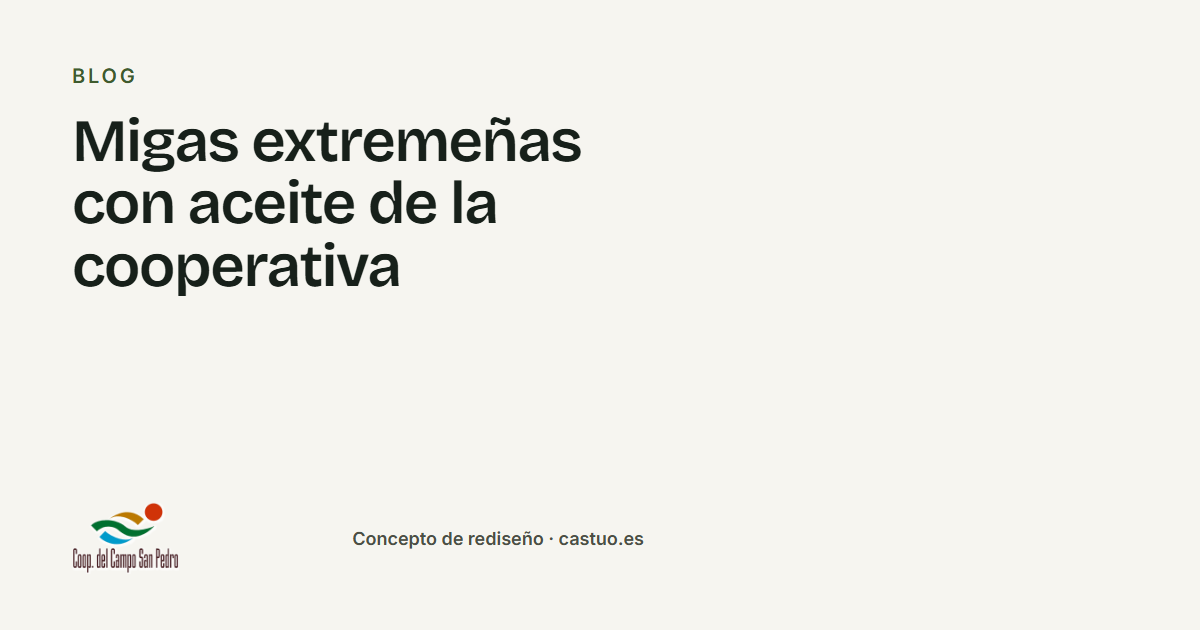
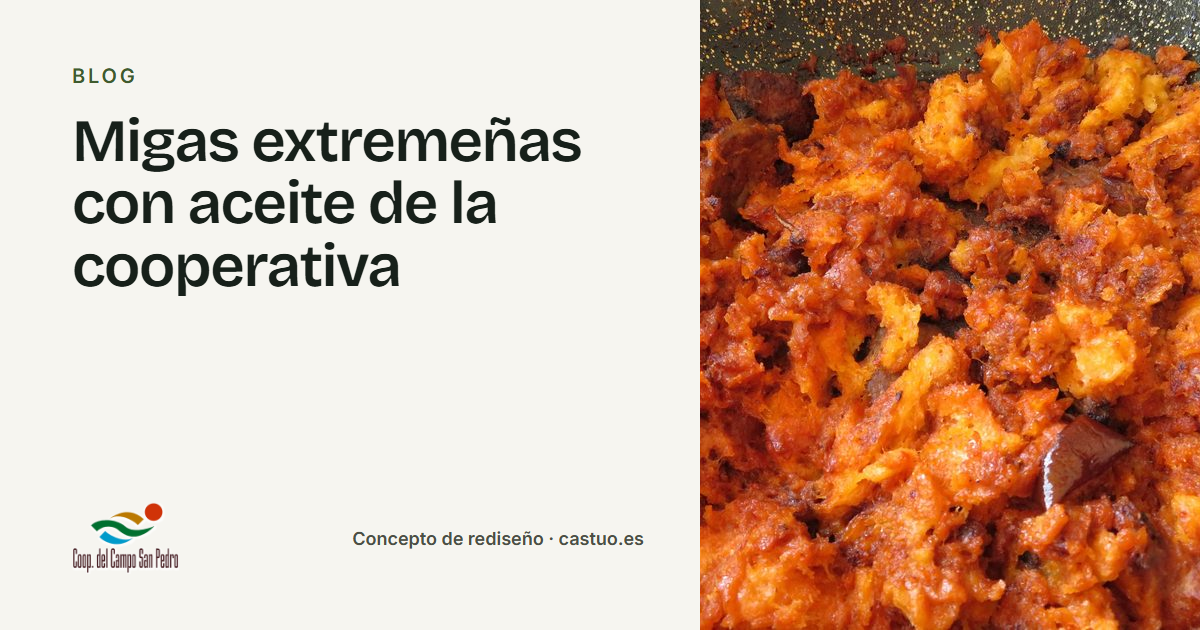
Fotos de recetas del blog (Wikimedia Commons, CC BY 4.0) con créditos

diff --git a/src/data/fotos.ts b/src/data/fotos.ts
@@ -1,6 +1,7 @@
 // Asignación de cada hueco [FOTO] del diseño a una fotografía real de castuo.es (ver catalogo.json).
 // `file: null` → no hay foto adecuada: se muestra un bloque --placeholder y se anota en PENDIENTE.md.
-export interface Slot { file: string | null; alt: string; label?: string; pos?: string }
+export interface Credit { author: string; title: string; source: string; license: string; licenseUrl: string }
+export interface Slot { file: string | null; alt: string; label?: string; pos?: string; credit?: Credit }
 
 export const FOTOS = {
   // Inicio
@@ -44,8 +45,11 @@ export const FOTOS = {
   'como-elegir-aceite-de-oliva-virgen-extra': { file: '2025-04-5-imagen-de-whatsapp-2025-04-04-a-las-11.36.25_5211cb80.jpg', alt: 'Garrafas y botellas de AOVE El Castúo en una estantería bajo los trofeos Extrema Selección', pos: '50% 85%' },
   'como-conservar-el-aceite-en-casa': { file: '2021-02-aceite-el-castuo-0.75-l-1.jpg', alt: 'Botella de cristal oscuro de AOVE El Castúo de 750 ml', pos: '50% 50%' },
   'cosecha-temprana-que-es': { file: '2025-05-premios-extrema-seleccion-aove-2025-7.jpg', alt: 'Medalla de Oro Extrema Selección 2025 junto a una botella de AOVE ante los depósitos', pos: '50% 50%' },
-  'migas-extremenas-con-aceite': { file: null, alt: 'Migas extremeñas', label: 'Migas extremeñas · foto pendiente' },
-  'tostadas-con-aove': { file: null, alt: 'Tostadas con aceite de oliva virgen extra', label: 'Tostadas · foto pendiente' },
+  // Fotos externas con licencia CC BY 4.0 (Wikimedia Commons): llevan crédito visible en el artículo y en /legal/
+  'migas-extremenas-con-aceite': { file: 'commons-migas-de-pastor-maestrazgo.jpg', alt: 'Migas de pastor con pimentón doradas en la sartén', pos: '50% 50%',
+    credit: { author: 'Juan Emilio Prades Bel', title: 'Migas de Pastor, Maestrazgo', source: 'https://commons.wikimedia.org/wiki/File:Migas_de_Pastor,_Maestrazgo.jpg', license: 'CC BY 4.0', licenseUrl: 'https://creativecommons.org/licenses/by/4.0/' } },
+  'tostadas-con-aove': { file: 'commons-pan-tostado-tomate-aceite-sal.jpg', alt: 'Rebanadas de pan tostado con tomate, aceite de oliva y sal', pos: '50% 50%',
+    credit: { author: 'Juan Emilio Prades Bel', title: 'Pan tostado con tomate de colgar, aceite de oliva y sal', source: 'https://commons.wikimedia.org/wiki/File:Pan_tostado_con_tomate_de_colgar,_aceite_de_oliva_y_sal.jpg', license: 'CC BY 4.0', licenseUrl: 'https://creativecommons.org/licenses/by/4.0/' } },
   'vino-semidulce-cuando-servirlo': { file: '2022-12-img_0331.jpg', alt: 'Botella de vino semidulce El Castúo apoyada en su estuche', pos: '50% 50%' },
   'jornada-de-campana-en-la-almazara': { file: '2014-11-foto-aerea.jpg', alt: 'Vista aérea de las instalaciones de la almazara en Guareña', pos: '50% 50%' },
 } satisfies Record<string, Slot>;

diff --git a/src/lib/images.ts b/src/lib/images.ts
@@ -1,6 +1,7 @@
 import type { ImageMetadata } from 'astro';
-const files = import.meta.glob<{ default: ImageMetadata }>('/src/assets/fotos/original/*.{jpg,jpeg,png,webp}', { eager: true });
+// original/: fotos de castuo.es · externas/: fotos con licencia libre (Wikimedia Commons), con crédito en FOTOS
+const files = import.meta.glob<{ default: ImageMetadata }>('/src/assets/fotos/{original,externas}/*.{jpg,jpeg,png,webp}', { eager: true });
 export function fotoSrc(file: string | null | undefined): ImageMetadata | null {
   if (!file) return null;
-  return files[`/src/assets/fotos/original/${file}`]?.default ?? null;
+  return (files[`/src/assets/fotos/original/${file}`] ?? files[`/src/assets/fotos/externas/${file}`])?.default ?? null;
 }

diff --git a/PENDIENTE.md b/PENDIENTE.md
@@ -11,11 +11,11 @@ Todo lo marcado `[ENTRE CORCHETES]` en el diseño se ha resuelto con datos publi
 
 | Hueco | Dónde | Motivo |
 |---|---|---|
-| Oficinas | Galería de Cooperativa | La galería «Oficinas» de castuo.es no contiene imágenes en el HTML. |
-| Migas extremeñas | Blog | No hay fotos de recetas en la web oficial. |
-| Tostadas con AOVE | Blog | Ídem. |
+| Oficinas | Galería de Cooperativa | La galería «Oficinas» de castuo.es no contiene imágenes en el HTML, y no hay fotos libres del edificio (en Wikimedia Commons solo aparece el pueblo). |
 | Cata de aceite en la almazara / socios en la recepción de aceituna | Inicio | No existen; se han usado en su lugar fotos reales del equipo ante los depósitos y de los socios en el 50 aniversario. |
 | Sellos (Extrema Selección, ISO) | Inicio, Calidad, fichas | Los sellos ISO de castuo.es son logos de la certificadora (Applus+), un tercero: se han sustituido por insignias tipográficas. Pedir los sellos oficiales y su manual de uso. |
+
+**Fotos de recetas ilustrativas**: los artículos de migas y tostadas usan dos fotos de Wikimedia Commons (Juan Emilio Prades Bel, CC BY 4.0), con crédito bajo la foto y en /legal/#creditos. No son platos de la cooperativa: habría que sustituirlas por fotos propias.
 
 **Fotos de fincas en baja resolución**: olivar (tradicional, intensivo y superintensivo), viña en vaso, almendro y la ruta por el olivar usan las miniaturas de 400 × 400 px de castuo.es, que llevan el logo superpuesto. Un recorte en servidor deja el logo fuera, pero a 2× se ven algo blandas. Habría que pedir los originales sin logo.
 

diff --git a/README.md b/README.md
@@ -75,7 +75,7 @@ Los productos y precios son los de la tienda de castuo.es a 20/11/2026: coincide
 
 ## Fotografías
 
-`npm run fotos` rastrea castuo.es (respeta `robots.txt` y espera 1 s entre peticiones), descarga los originales sin sufijo de tamaño y genera el catálogo. `src/assets/fotos/catalogo.json` recoge, para cada imagen, el archivo, la URL y las páginas de origen, sus dimensiones, una descripción revisada a mano y si se usa, está disponible o se descarta (y por qué). Cuando no había una foto adecuada no se ha inventado ni se ha recurrido a bancos de imágenes: se muestra un bloque `--placeholder` y queda anotado en [`PENDIENTE.md`](PENDIENTE.md).
+`npm run fotos` rastrea castuo.es (respeta `robots.txt` y espera 1 s entre peticiones), descarga los originales sin sufijo de tamaño y genera el catálogo. `src/assets/fotos/catalogo.json` recoge, para cada imagen, el archivo, la URL y las páginas de origen, sus dimensiones, una descripción revisada a mano y si se usa, está disponible o se descarta (y por qué). Cuando no había una foto adecuada no se ha inventado ni se ha recurrido a bancos de imágenes. Las dos recetas del blog usan fotos de Wikimedia Commons con licencia CC BY 4.0, con crédito visible (en `src/assets/fotos/externas/`). El único hueco que queda, Oficinas, muestra un bloque `--placeholder` y está anotado en [`PENDIENTE.md`](PENDIENTE.md).
 
 ## Animaciones: decisión técnica de cada una
 
